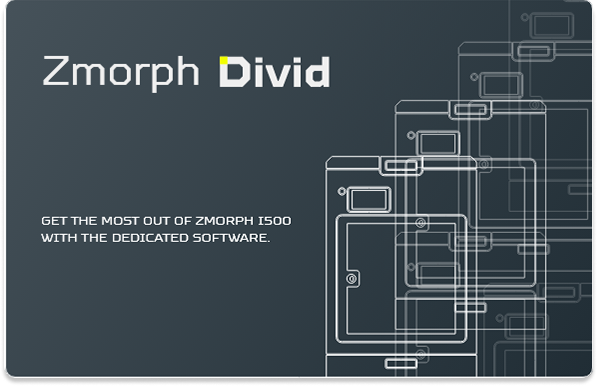
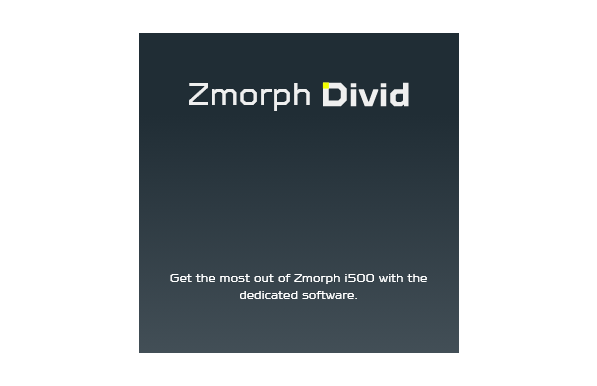
style: Change splashscreen, update changelog

diff --git a/resources/qml/Preferences/GeneralPage.qml b/resources/qml/Preferences/GeneralPage.qml
@@ -287,29 +287,29 @@ UM.PreferencesPage
                 //     }
                 // }
 
-                Cura.ComboBox
-                {
-                    id: themeComboBox
+                // Cura.ComboBox
+                // {
+                //     id: themeComboBox
 
-                    model: themeList
-                    textRole: "text"
-                    implicitWidth: UM.Theme.getSize("combobox").width
-                    height: currencyField.height
+                //     model: themeList
+                //     textRole: "text"
+                //     implicitWidth: UM.Theme.getSize("combobox").width
+                //     height: currencyField.height
 
-                    currentIndex:
-                    {
-                        var code = UM.Preferences.getValue("general/theme");
-                        for(var i = 0; i < themeList.count; ++i)
-                        {
-                            if(model.get(i).code == code)
-                            {
-                                return i
-                            }
-                        }
-                        return 0;
-                    }
-                    onActivated: UM.Preferences.setValue("general/theme", model.get(index).code)
-                }
+                //     currentIndex:
+                //     {
+                //         var code = UM.Preferences.getValue("general/theme");
+                //         for(var i = 0; i < themeList.count; ++i)
+                //         {
+                //             if(model.get(i).code == code)
+                //             {
+                //                 return i
+                //             }
+                //         }
+                //         return 0;
+                //     }
+                //     onActivated: UM.Preferences.setValue("general/theme", model.get(index).code)
+                // }
             }
 
             UM.TooltipArea
